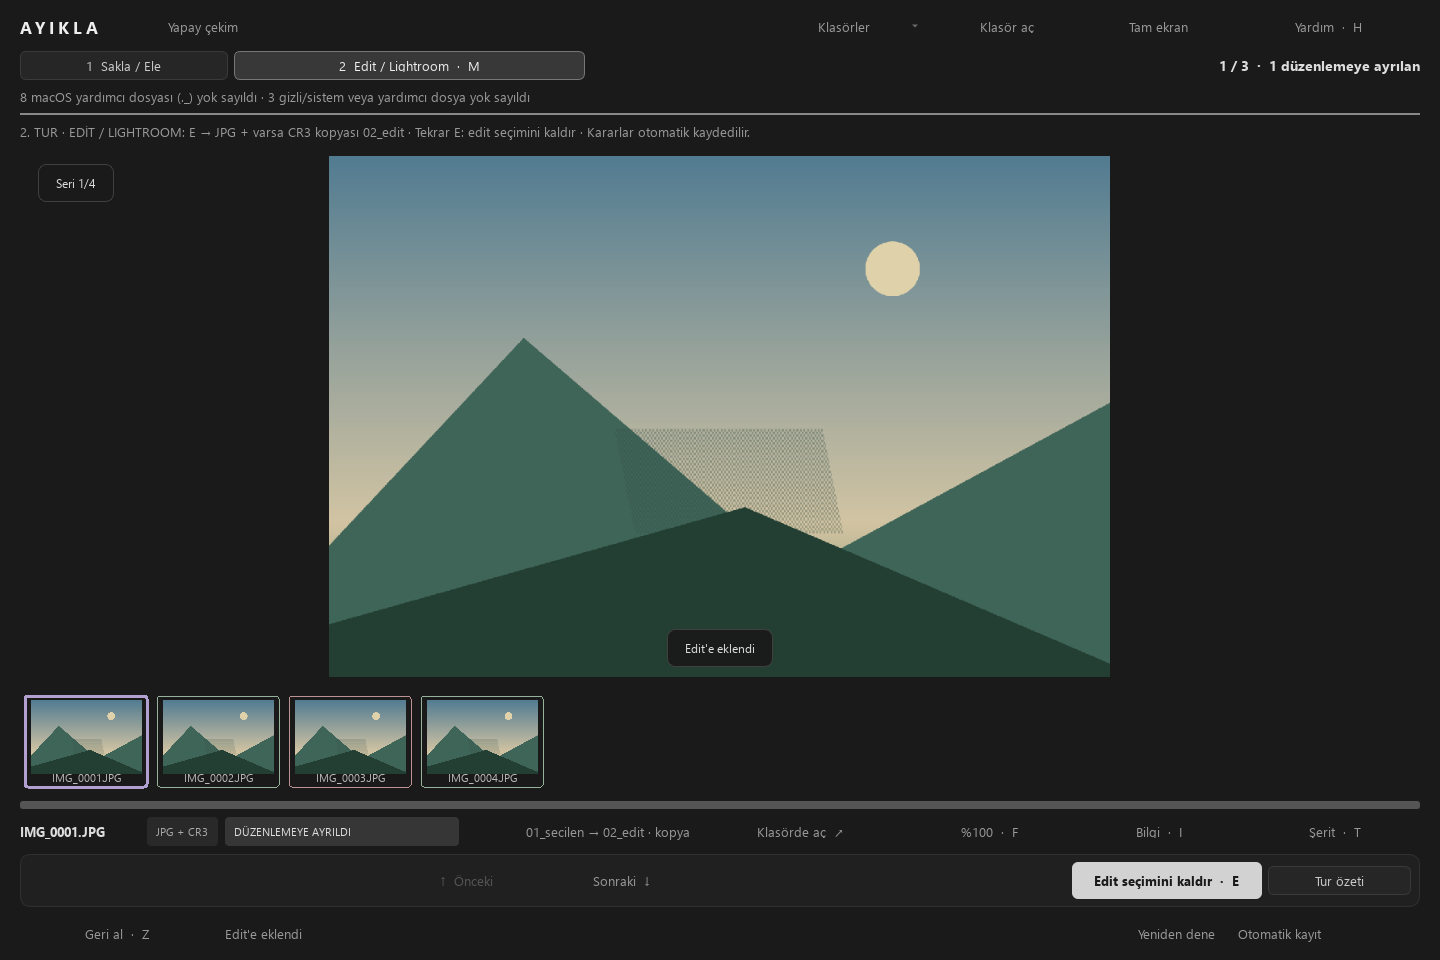
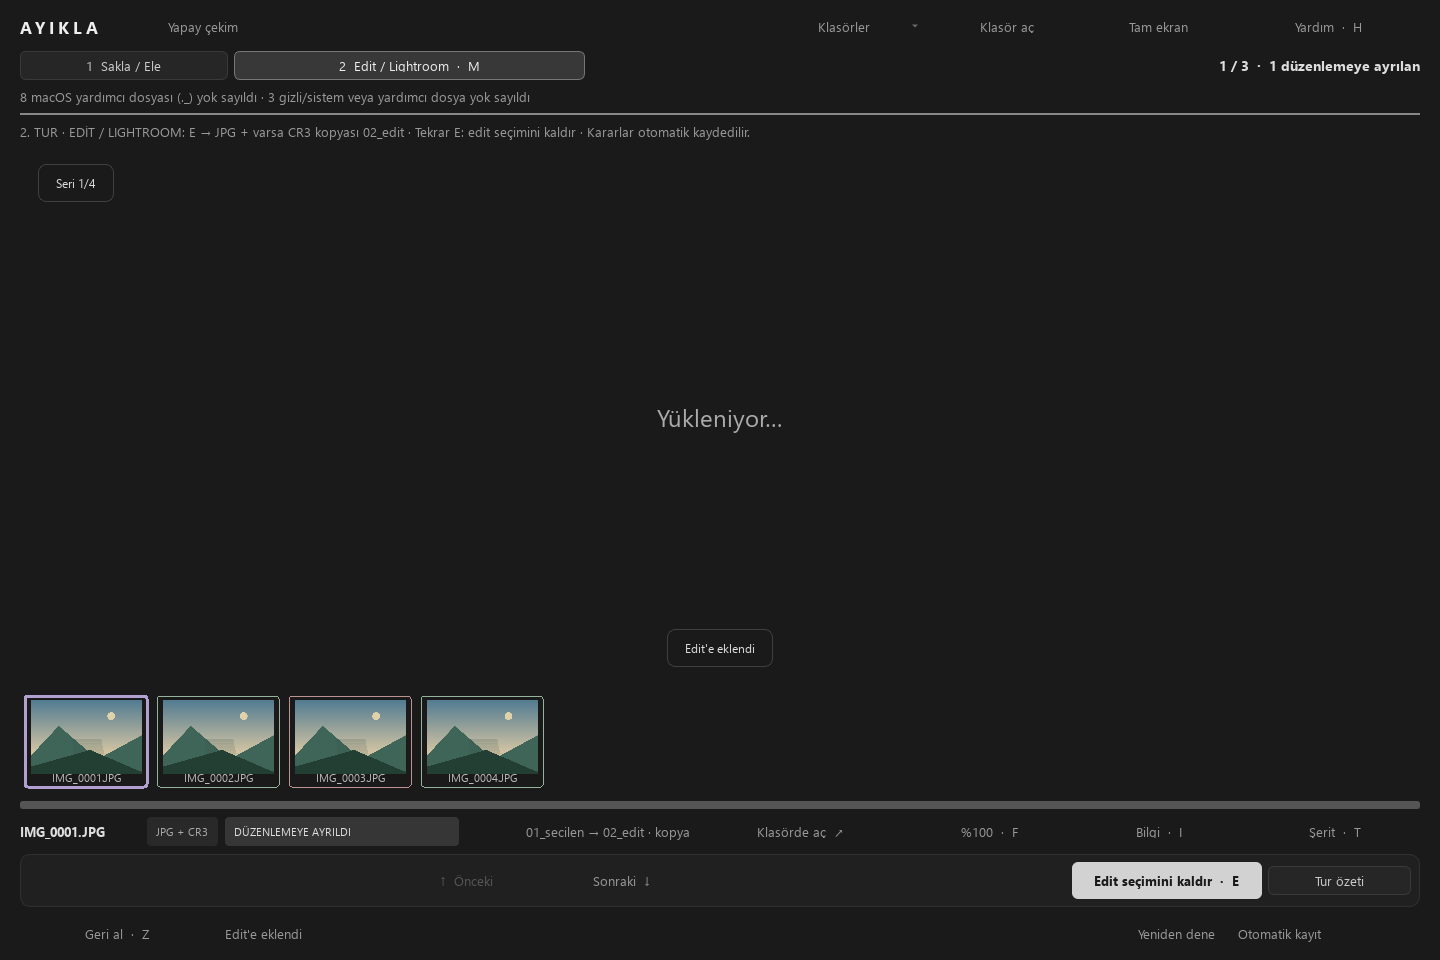
docs: record 131 passing tests and verified club beta package

Changed region(s): [[0.2188, 0.1562, 0.7812, 0.7188]]

diff --git a/RAPOR.md b/RAPOR.md
@@ -1,8 +1,26 @@
-# Ayikla 1.1 — sonuç ve ölçümler
+# Ayikla 1.1.1b1 — beta değerlendirmesi ve ölçümler
 
 25 Ekim 2026 · Windows 11 x64 · Python 3.12.10 · PySide6 6.12.0 · Pillow 12.3.0
 
 **Teslim:** `dist\Ayikla\Ayikla.exe`, yanındaki `_internal\` ve `MasaustuKisayolu.ps1`. Klasörün tamamı birlikte taşınır; Python kurulumu gerekmez. Yerel git deposu, remote yok.
+
+## Kulüp betası öncesi son inceleme
+
+**Karar:** Küçük bir fotoğraf kulübü betası için uygun. İncelenen akışta paylaşımı durduracak başka bir hata saptanmadı; genel kararlı sürüm veya her donanımda doğrulanmış ürün iddiası yok. Bu aşamada yeni özellik yerine 3–5 kişinin farklı bilgisayarlardaki kullanımını görmek daha değerli.
+
+Günlük/taşıma/kopyalama/geri alma, üzerine yazmama, AppleDouble, bozuk JPEG, ölçekli decode, önbellek, arayüz ve dağıtım kodu incelendi. Başlangıçtaki **118 test geçti (62,92 s)**. Bir açılış kusuru düzeltildi: taşınabilir ayar dosyası okunamıyorsa uygulama kapanıyordu; artık varsayılanlarla açılıp Türkçe bilgi veriyor. Ayar dosyası değiştirilmez; çekim günlüğü bağımsız kalır. Okuma hataları, ilk açılış ve bu durumda çekim açıp karar verebilme yeni testlerle kapsandı.
+
+Sürüm **1.1.1b1** pencere başlığına ve H yardımına eklendi; Windows dosya sürümü ve proje sürümü eşlendi. Yardım başlığındaki `KLAVYE` metni mevcut testle yakalanan uyumsuzluk sonrası korundu.
+
+**Paylaşılacak dosya:** `dist\Ayikla-1.1.1b1-Windows-x64.zip`. Betik yalnızca exe, çalışma zamanı/lisanslar, kısayol betiği ve kısa beta kılavuzunu paketler; son klasör ayarları, çekim günlükleri ve fotoğrafları pakete almaz. Var olan ZIP'in üzerine yazmaz. Paketleme testleri özel verinin dışarıda kalmasını, giriş dosyalarının korunmasını, yol sınırını, ZIP bütünlüğünü ve sürüm uyumunu denetler. Yerel `dist\Ayikla` kişisel ayarları koruyabilir; paylaşım için ZIP kullanılır.
+
+[Beta kılavuzu](BETA.md) kurulum, beş dakikalık kabul akışı ve geri bildirim sorularını içerir. GitHub için hata/yorum şablonları hazırlandı. Güncel doğrulama raporlarında kişisel mutlak yollar yerine proje içi göreli yollar kullanılıyor. **GitHub deposu oluşturulmadı, remote eklenmedi, kimseye mesaj gönderilmedi.** Herkese açık kaynak yayını öncesinde depo görünürlüğü ve uygulamanın kaynak lisansı seçilmeli; kökte henüz uygulama lisansı yoktur. `licenses/` üçüncü taraf bildirimleridir.
+
[1 lines of base64/hex data omitted]
+
+Güncel paket doğrulamaları: [pytest](docs/test-results.xml), [exe/offscreen](docs/verification.json), [exe/Windows](docs/verification-windows.json), [paylaşım ZIP'i](docs/release-verification.json). ZIP'in CRC bütünlüğü ve runtime dosyalarının doğrulanan pakete bayt düzeyinde eşitliği kontrol edildi; ayrı proje içi geçici klasöre çıkarılan exe Windows eklentisiyle uçtan uca akışı geçti. Ayar/günlük dosyalarının arşivde bulunmadığı doğrulandı. Aşağıdaki önceki teslim sayıları ve benchmark'lar tarihseldir; bu beta için performans benchmark'ı tekrarlanmadı.
+
+**Saha sınırları:** Gerçek R50 dosyalarıyla bu oturumda test yapılmadı. İkinci bilgisayar, yüksek DPI/çoklu monitör, harici disk/SD kart bağlantı kaybı ve gerçek elektrik kesintisi sınanmadı. Paket imzasız; ICC/renk doğruluğu doğrulanmadı. Mevcut minimum pencere 1024×680 mantıksal piksel; yüksek ölçeklemeli küçük ekranda sığmayabilir. İlk kulüp denemesi küçük bir çekimin ayrı kopyasıyla yapılmalı. Bunlar beta geri bildiriminin öncelikleri; yeni özellik olarak eklenmedi.
 
 ## Tasarım düzenlemesi ve klasörlere erişim
 
